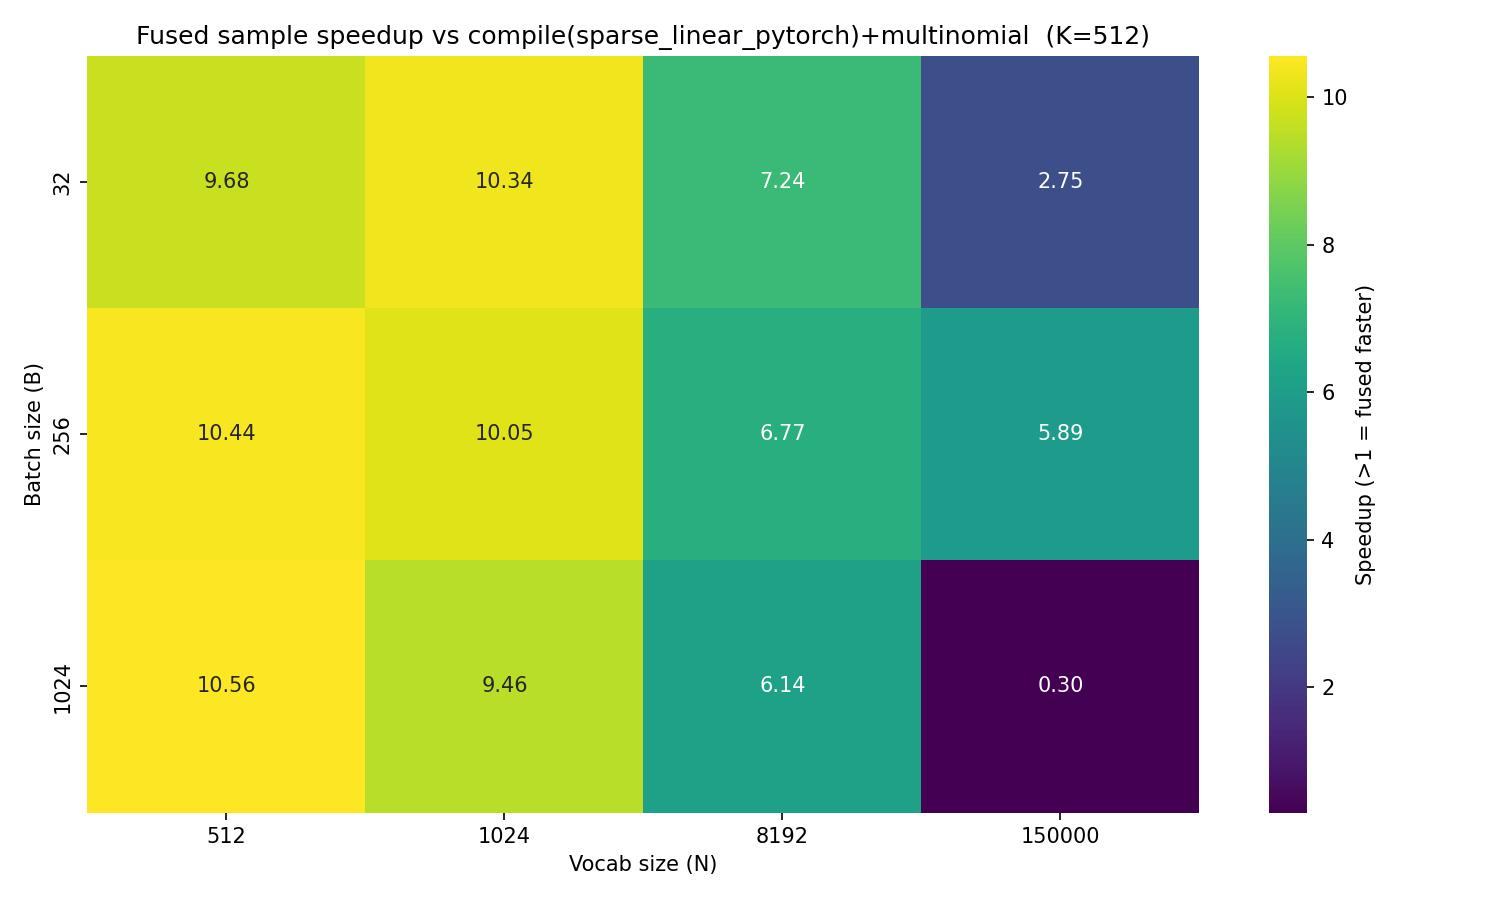
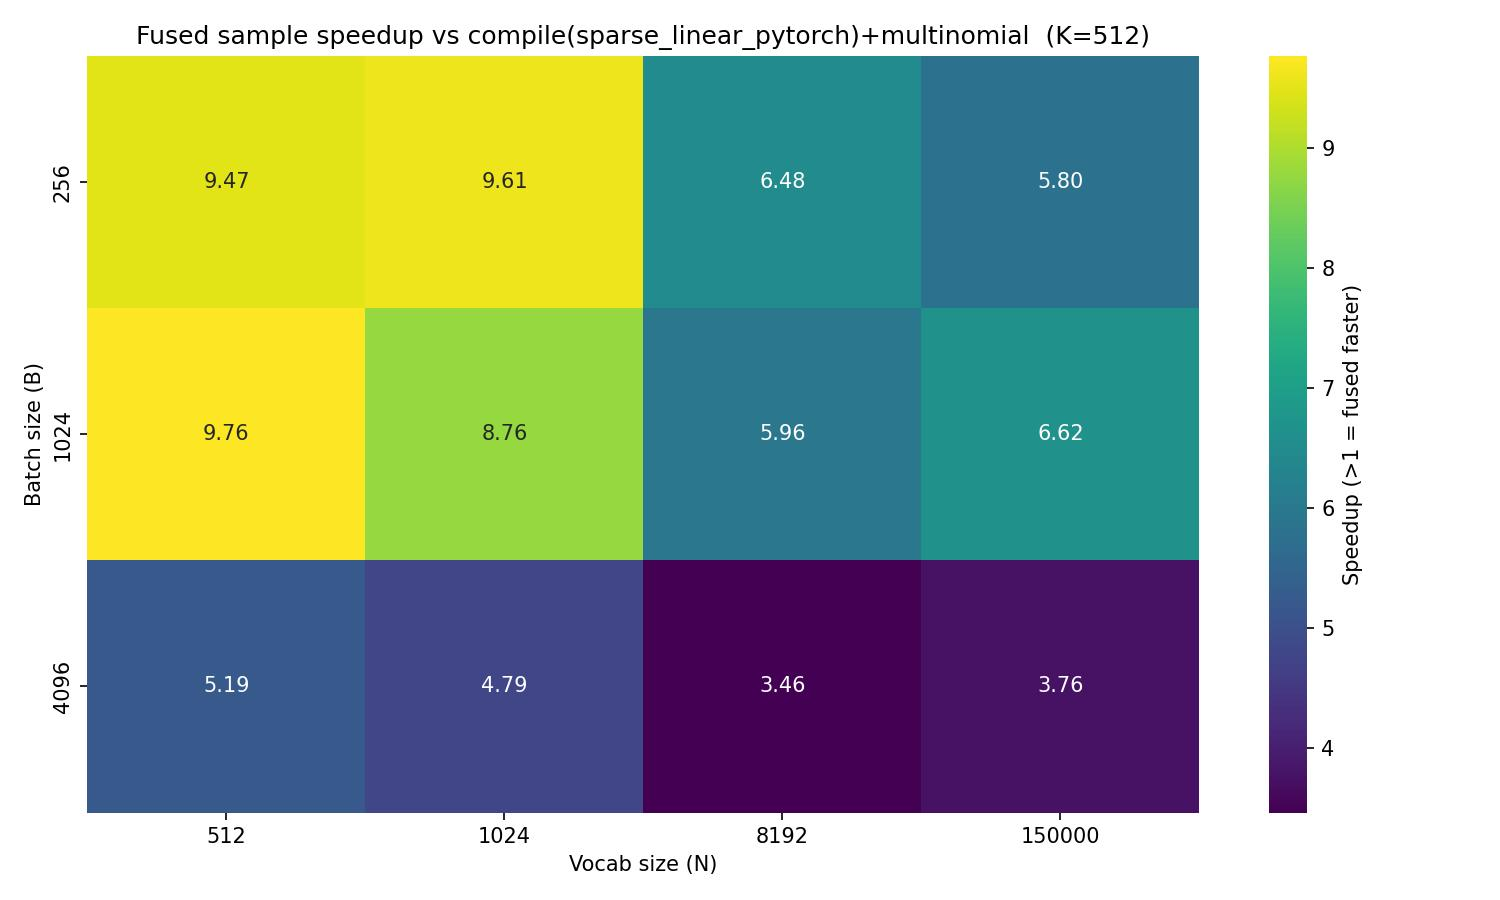
Update benchmarks

diff --git a/examples/scripts/benchmark/benchmark_vtnk.py b/examples/scripts/benchmark/benchmark_vtnk.py
@@ -32,7 +32,7 @@ WARMUP = 25
 REP = 100
 
 ALL_ALGORITHMS = ["fused", "kernel", "pytorch", "sparse_pytorch", "trie_cpu"]
-DEFAULT_ALGORITHMS = ["fused", "sparse_pytorch"]
+DEFAULT_ALGORITHMS = ["fused", "kernel", "pytorch", "sparse_pytorch", "trie_cpu"]
 DEFAULT_SPARSITY = 0.01
 
 
@@ -100,6 +100,7 @@ def run_bench_cpu(fn, warmup: int = WARMUP, rep: int = REP) -> float:
 def benchmark_grid(B_vals, N_vals, algorithms, sparsity):
     alg_set = set(algorithms)
     gpu_algos = alg_set & {"fused", "kernel", "pytorch", "sparse_pytorch"}
+    max_B, max_N = max(B_vals), max(N_vals)
     records = []
 
     for B in B_vals:
@@ -107,23 +108,27 @@ def benchmark_grid(B_vals, N_vals, algorithms, sparsity):
             max_branches = max(1, int(N * sparsity))
             print(f"  B={B:6d}  N={N:6d}  max_branches={max_branches}")
 
+            # CPU traversal is too slow to run at the highest N and B values
+            skip_cpu = B == max_B or N == max_N
+            active_alg_set = alg_set - ({"trie_cpu"} if skip_cpu else set())
+
             if gpu_algos:
                 csr = make_csr(vocab_size=N, max_branches=max_branches)
-            if "trie_cpu" in alg_set:
+            if "trie_cpu" in active_alg_set:
                 _, trie_nodes = make_trie(max_branches=max_branches)
 
             a = torch.randn(B, K, device=DEVICE)
             weight = torch.randn(N, K, device=DEVICE)
             cur_node = torch.zeros(B, dtype=torch.long, device=DEVICE)
-            if "trie_cpu" in alg_set:
+            if "trie_cpu" in active_alg_set:
                 cur_node_cpu = cur_node.cpu()
 
-            if "pytorch" in alg_set:
+            if "pytorch" in active_alg_set:
                 linear = torch.compile(nn.Linear(K, N, bias=False).to(DEVICE))
                 with torch.no_grad():
                     linear.weight.data.copy_(weight)
 
-            if "sparse_pytorch" in alg_set:
+            if "sparse_pytorch" in active_alg_set:
                 sparse_linear_pytorch_compiled = torch.compile(sparse_linear_pytorch)
 
             if gpu_algos:
@@ -131,57 +136,57 @@ def benchmark_grid(B_vals, N_vals, algorithms, sparsity):
 
             # --- warmup / force compilation ---
             with torch.no_grad():
-                if "fused" in alg_set:
+                if "fused" in active_alg_set:
                     fused_linear_constrained_node_transition(a, weight.T, cs)
-                if "kernel" in alg_set:
+                if "kernel" in active_alg_set:
                     constrained_node_transition(a @ weight.T, cs)
-                if "pytorch" in alg_set:
+                if "pytorch" in active_alg_set:
                     vtnk_pytorch(linear(a), cur_node, csr, step=0)
-                if "sparse_pytorch" in alg_set:
+                if "sparse_pytorch" in active_alg_set:
                     sparse_linear_pytorch_compiled(a, weight, cur_node, csr, step=0)
 
             record = {"B": B, "N": N}
 
             # --- benchmark ---
             with torch.no_grad():
-                if "fused" in alg_set:
+                if "fused" in active_alg_set:
                     record["ms_fused"] = run_bench(
                         lambda: fused_linear_constrained_node_transition(
                             a, weight.T, cs
                         )
                     )
-                if "kernel" in alg_set:
+                if "kernel" in active_alg_set:
                     record["ms_kernel"] = run_bench(
                         lambda: constrained_node_transition(a @ weight.T, cs)
                     )
-                if "pytorch" in alg_set:
+                if "pytorch" in active_alg_set:
                     record["ms_pytorch"] = run_bench(
                         lambda: vtnk_pytorch(linear(a), cur_node, csr, step=0)
                     )
-                if "sparse_pytorch" in alg_set:
+                if "sparse_pytorch" in active_alg_set:
                     record["ms_sparse_pytorch"] = run_bench(
                         lambda: sparse_linear_pytorch_compiled(
                             a, weight, cur_node, csr, step=0
                         )
                     )
-            if "trie_cpu" in alg_set:
+            if "trie_cpu" in active_alg_set:
                 record["ms_trie_cpu"] = run_bench_cpu(
                     lambda: trie_cpu_traversal(cur_node_cpu, trie_nodes, N)
                 )
 
-            if "fused" in alg_set and "kernel" in alg_set:
+            if "fused" in active_alg_set and "kernel" in active_alg_set:
                 record["speedup_fused_vs_kernel"] = (
                     record["ms_kernel"] / record["ms_fused"]
                 )
-            if "fused" in alg_set and "pytorch" in alg_set:
+            if "fused" in active_alg_set and "pytorch" in active_alg_set:
                 record["speedup_fused_vs_pytorch"] = (
                     record["ms_pytorch"] / record["ms_fused"]
                 )
-            if "fused" in alg_set and "sparse_pytorch" in alg_set:
+            if "fused" in active_alg_set and "sparse_pytorch" in active_alg_set:
                 record["speedup_fused_vs_sparse_pytorch"] = (
                     record["ms_sparse_pytorch"] / record["ms_fused"]
                 )
-            if "fused" in alg_set and "trie_cpu" in alg_set:
+            if "fused" in active_alg_set and "trie_cpu" in active_alg_set:
                 record["speedup_fused_vs_trie_cpu"] = (
                     record["ms_trie_cpu"] / record["ms_fused"]
                 )
@@ -235,7 +240,7 @@ if __name__ == "__main__":
     assert torch.cuda.is_available(), "CUDA required"
     os.makedirs("out", exist_ok=True)
 
-    B_vals = [4096]
+    B_vals = [256, 1024, 4096]
     N_vals = [512, 1024, 8192, 150000]
 
     print(f"Benchmarking K={K}, sparsity={args.sparsity}")

diff --git a/examples/scripts/benchmark/benchmark_fused_sample.py b/examples/scripts/benchmark/benchmark_fused_sample.py
@@ -151,7 +151,7 @@ if __name__ == "__main__":
     assert torch.cuda.is_available(), "CUDA required"
     os.makedirs("out", exist_ok=True)
 
-    B_vals = [32, 256, 1024, 4096]
+    B_vals = [256, 1024, 4096]
     N_vals = [512, 1024, 8192, 150000]
 
     print(f"Benchmarking K={K}, sparsity={args.sparsity}")

diff --git a/README.md b/README.md
@@ -451,7 +451,7 @@ python -m pytest tests/test_hf_integration.py
 
 ## Performance
 
-The `examples/scripts/benchmark/benchmark_vtnk.py` script benchmarks constrained decoding implementations across batch sizes (`B ∈ {32, 256, 1024}`) and vocabulary sizes (`N ∈ {512, 1024, 8192, 150000}`). All results below were obtained with **1% sparsity** (i.e. the trie has at most `0.01 × N` valid next tokens at each node), with hidden dim K=512 fixed.
+The `examples/scripts/benchmark/benchmark_vtnk.py` script benchmarks constrained decoding implementations across batch sizes (`B ∈ {256, 1024, 4096}`) and vocabulary sizes (`N ∈ {512, 1024, 8192, 150000}`). All results below were obtained with **1% sparsity** (i.e. the trie has at most `0.01 × N` valid next tokens at each node), with hidden dim K=512 fixed.
 
 ```bash
 python -m examples.scripts.benchmark.benchmark_vtnk
@@ -459,13 +459,13 @@ python -m examples.scripts.benchmark.benchmark_vtnk
 
 ### Fused Kernel Speedup Heatmaps
 
-This section benchmarks `fused_linear_constrained_node_transition` — the kernel that fuses the linear projection and CSR trie constraint into a single GPU pass — against four baselines. Each heatmap reports the speedup ratio (values > 1 mean the fused kernel is faster) across batch sizes (B ∈ {32, 256, 1024}) and vocabulary sizes (N ∈ {512, 1024, 8192, 150000}), with hidden dim K=512 and 1% sparsity.
+This section benchmarks `fused_linear_constrained_node_transition` — the kernel that fuses the linear projection and CSR trie constraint into a single GPU pass — against four baselines. Each heatmap reports the speedup ratio (values > 1 mean the fused kernel is faster) across batch sizes (B ∈ {256, 1024, 4096}) and vocabulary sizes (N ∈ {512, 1024, 8192, 150000}), with hidden dim K=512 and 1% sparsity.
 
-**Summary of findings.** The fused kernel consistently outperforms all GPU baselines at large vocabulary sizes (N ≥ 8192) and its advantage grows with both N and B. At N=150k the fused kernel is **76–122× faster** than the two-kernel approach (separate matmul + constraint pass) and **4–9× faster** than the dense PyTorch baseline, because fusing the linear projection and CSR mask into a single Triton kernel eliminates the intermediate logit buffer and the second kernel-launch overhead — costs that scale directly with N. Against sparse PyTorch the advantage ranges from **8–10×** at small-to-medium vocab (N ≤ 1024) down to **1.6–5.6×** at N=150k, as sparse PyTorch already skips the majority of the matmul work and its relative advantage over the fused kernel grows at very large N and B.
+**Summary of findings.** The fused kernel consistently outperforms all GPU baselines. Against the dense PyTorch baseline (`compiled_linear+vtnk_pytorch`) it is **3–6× faster** across all grid points, with peak advantage at B ∈ {256, 1024} (5.9–6.3×) and a reduced but still clear margin at B=4096 (3.0–3.8×). Against sparse PyTorch the advantage is **7.5–8.5×** at N ≤ 1024 for B ∈ {256, 1024}, dropping to **3.4–3.9×** at B=4096; at N=8192 it narrows to **1.2–6.5×**, and at N=150k the fused kernel is only marginally ahead (**1.0–1.8×**) since sparse PyTorch already skips most of the matmul work at high sparsity.
 
-At small vocabulary (N ≤ 512) the fused kernel is **slower** than the two-kernel approach (0.68–0.74×). Here the matmul is small enough that cuBLAS (used by `torch.compile(nn.Linear)`) outperforms the hand-written Triton tile, and the savings from avoiding a second kernel launch do not compensate.
+Against the two-kernel approach (separate matmul + constraint pass) the advantage is strongly N-driven: at N=150k the fused kernel is **59–79× faster**, at N=8192 **5.2–6.7×**, and at N=1024 **1.1–2.5×**. At N=512 the cuBLAS-backed matmul outperforms the hand-written Triton tile at B=256 (0.74×), but the fused kernel recovers to 1.4–1.6× at larger batch sizes.
 
-Against CPU trie traversal the fused kernel wins by **20–737×**. The dominant axis is batch size: at B=1024 speedups reach 470–737× for N ≤ 8192, because the CPU baseline traverses B items serially while the GPU processes the whole batch in parallel. At N=150k the speedup contracts at small batch (20× at B=32) as GPU compute time grows, but remains substantial at larger batch (80× at B=256, 98× at B=1024). The fused kernel is the clear winner at every grid point.
+Against CPU trie traversal (benchmarked for B ∈ {256, 1024} and N ∈ {512, 1024, 8192} — the CPU baseline was too slow at larger settings) the speedups are massive: **175–578×** at N=512, **289–974×** at N=1024, and **1582–2267×** at N=8192. The dominant axis is batch size: the GPU processes B items in parallel while the CPU traverses them serially, driving the speedup proportionally with B.
 
 **vs PyTorch (dense)** — `torch.compile(nn.Linear)` followed by `vtnk_pytorch`, which applies a validity mask to the logits in a separate GPU pass after the matmul.
 ![fused vs pytorch](out/heatmap_fused_vs_pytorch.jpg)
@@ -487,9 +487,9 @@ The `examples/scripts/benchmark/benchmark_fused_sample.py` script benchmarks `fu
 python -m examples.scripts.benchmark.benchmark_fused_sample
 ```
 
-**Summary of findings.** The fused sample kernel provides consistent speedups across small-to-medium vocabulary sizes but regresses at the extreme large-batch + large-vocab corner.
+**Summary of findings.** The fused sample kernel is faster than sparse PyTorch + multinomial at every point in the benchmark grid (B ∈ {256, 1024, 4096}, N ∈ {512, 1024, 8192, 150000}).
 
-At N ≤ 1024 the fused kernel is **9–11× faster** across all batch sizes: fusing the sampling step eliminates a `softmax` pass and a separate `torch.multinomial` kernel launch whose overhead rivals the matmul cost at small N. At N=8192 the advantage narrows to **6–7×** — the multinomial over ~82 valid tokens is cheap and sparse PyTorch's matmul savings begin to show. At N=150k the picture splits by batch size: for B ∈ {32, 256} the fused kernel is still **2.8–5.9× faster** because sparse PyTorch still needs the separate multinomial pass over 1500 valid candidates; for B=1024 the fused kernel is **~3× slower** (0.30×), as the in-kernel sampling loop does not parallelize efficiently across the 1500-branch mask at this batch volume while PyTorch's `torch.multinomial` dispatches a well-optimized CUDA kernel over the pre-computed logits. The practical recommendation: use `fused_linear_constrained_node_transition_sampling` for N ≤ 8192 or whenever B < 1024 at large vocab; fall back to the separate-sample path at B=1024, N=150k.
+At N ≤ 1024 the fused kernel is **9–10× faster** at B ∈ {256, 1024} and **4.8–5.2× faster** at B=4096: fusing the sampling step eliminates a `softmax` pass and a separate `torch.multinomial` kernel launch whose overhead rivals the matmul cost at small N. At N=8192 the advantage narrows to **3.5–6.5×** as sparse PyTorch's matmul savings grow. At N=150k the fused kernel remains consistently faster: **5.8–6.6×** at B ∈ {256, 1024} and **3.8×** at B=4096, because sparse PyTorch still requires the separate multinomial pass over ~1500 valid candidates regardless of batch size. `fused_linear_constrained_node_transition_sampling` is the recommended choice across all measured settings.
 
 **vs Sparse PyTorch + multinomial** — `torch.compile(sparse_linear_pytorch)` (skips invalid-token columns during the matmul) followed by `torch.softmax` and `torch.multinomial`. This is the two-step baseline that separates projection from sampling.
 ![fused sample vs sparse pytorch](out/heatmap_fused_sample_vs_sparse_pytorch.jpg)
